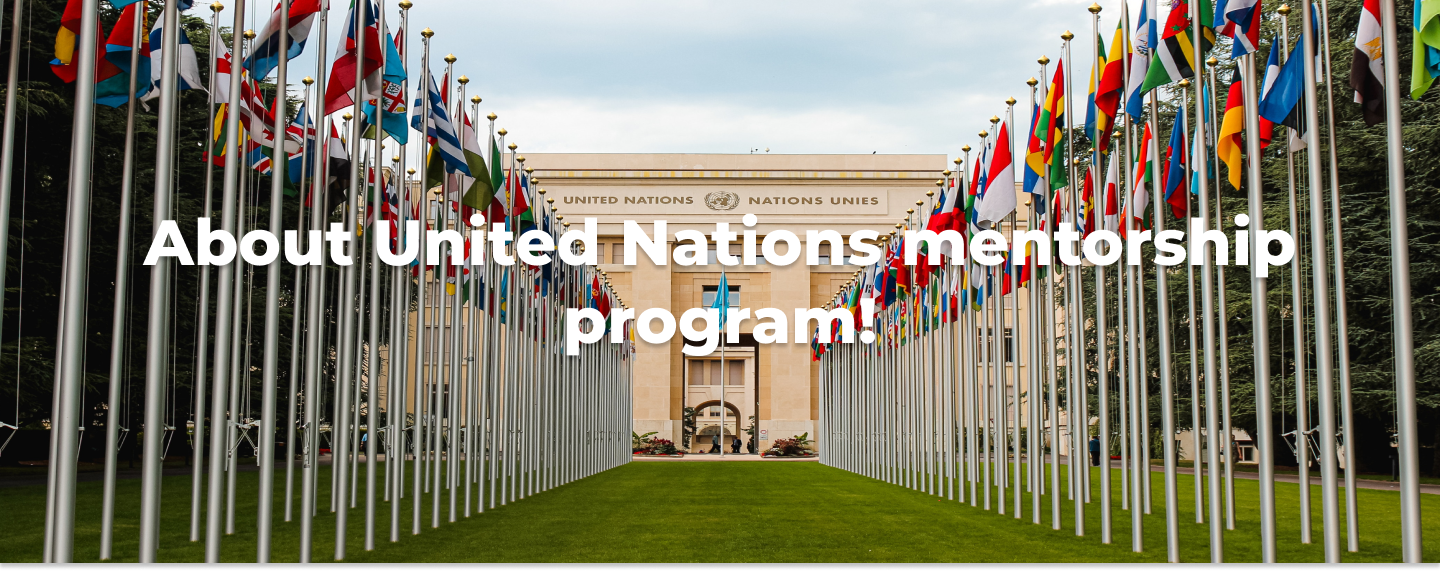
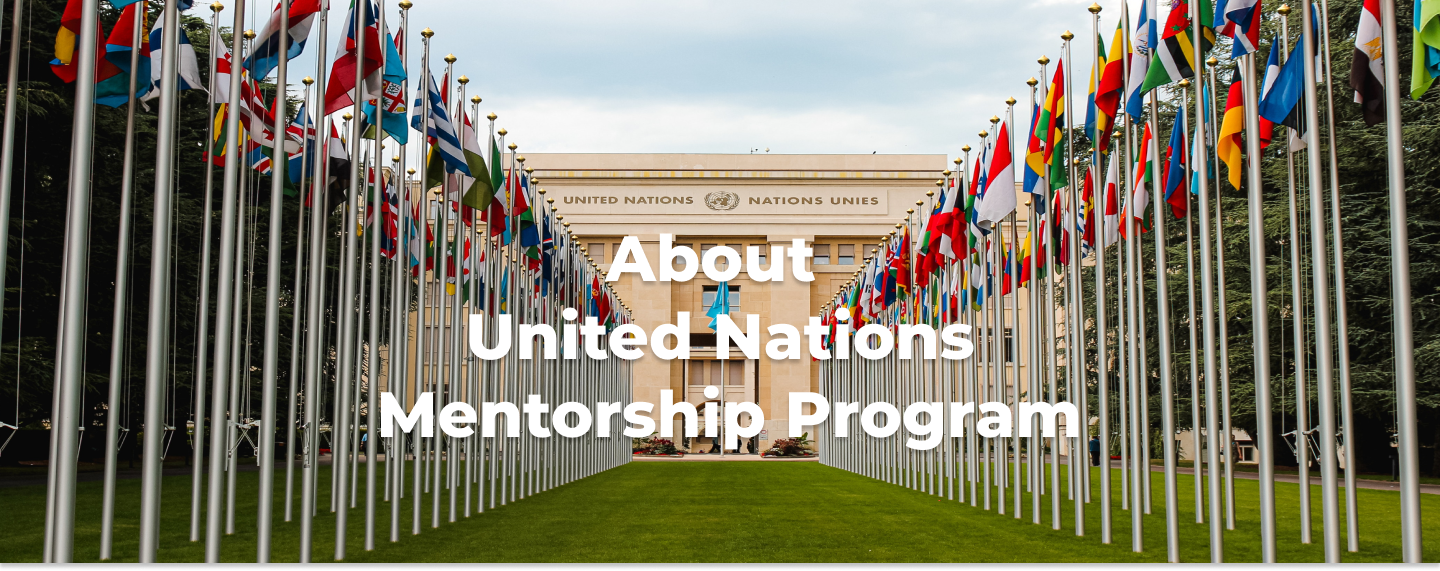
Added some Images & change Main images
Added some Images & change Main images

Changed region(s): [[0.0938, 0.3573, 0.9062, 0.5061], [0.25, 0.6848, 0.75, 0.8039], [0.3125, 0.5061, 0.6875, 0.655]]

diff --git a/UNMP.html b/UNMP.html
@@ -198,7 +198,7 @@
         <div class="container mx-10 my-4">
             <div class="container-fluid">
         
-                <h1 style="text-align: center;">About US</h1>
+                <h1 style="text-align: center; color: brown; font-weight: bold;  text-shadow: 0.1rem 0.1rem 0.2rem brown;">About US</h1>
         
                 <p style="color: black;">
                     The United Nations Organization posts numerous job opportunities for it’s various agencies every now and
@@ -210,7 +210,7 @@
                     International has taken the initiative of hosting India’s first and only UN Mentorship Program, wherein
                     UN insiders train you on how to secure a job with the United Nations. Till now, HHI has been successful
                     in conducting three editions of India’s First UN Mentorship Program, and is currently conducting the
-                    fourth one after receiving multiple requests from it's members. Once you join India’s First UN
+                    fourth one after receiving multiple requests from it's members. <br><br> Once you join India’s First UN
                     Mentorship Program, you get eligible for availing a lifetime membership card, through which you can get
                     access to all our webinars and workshops on the United Nations, additionally HHI will keep you posted on
                     any new job opportunity listed by the UN.
@@ -218,7 +218,7 @@
                     
                 </p>
         
-                <button type="button" class="btn btn-primary" style="width: 20%;">Read more</button>
+               
             </div>
         </div>
         
@@ -325,12 +325,26 @@
     </div>
 </div> -->
 <!-- PDF -->
-<hr>
+<br><br>
+<div class="container">
 <div class="container-fluid">
-    <h1 style="text-align: center;">About US</h1>
+  
 <iframe src="/assets/PDF/HHI MENTORSHIP NOV (1).pdf" width="100%" height="700px" style="border-radius: 4%; ">
 </iframe>
+</div>
+<br>
+<hr style="border-top: 4px solid brown;">
+<br>
 
+<div class="container-fluid">
+    <h1 style="text-align: center; color: brown; font-weight: bold; text-shadow: 0.1rem 0.1rem 0.2rem brown;">Syllabus of UN Mentorship Program</h1>
+</div>
+<br>
+<img src="/assets/img/UNMP/HHI-JAN-BOOKLATE-2022-1_Page_1.jpg" class="img-fluid" alt="..." />
+<br>
+<img src="/assets/img/UNMP/HHI-JAN-BOOKLATE-2022-1_Page_2.jpg" class="img-fluid" alt="..." />
+<br>
+<img src="/assets/img/UNMP/HHI-JAN-BOOKLATE-2022-1_Page_3.jpg" class="img-fluid" alt="..." />
 
     
     <!-- <section id="facts">
